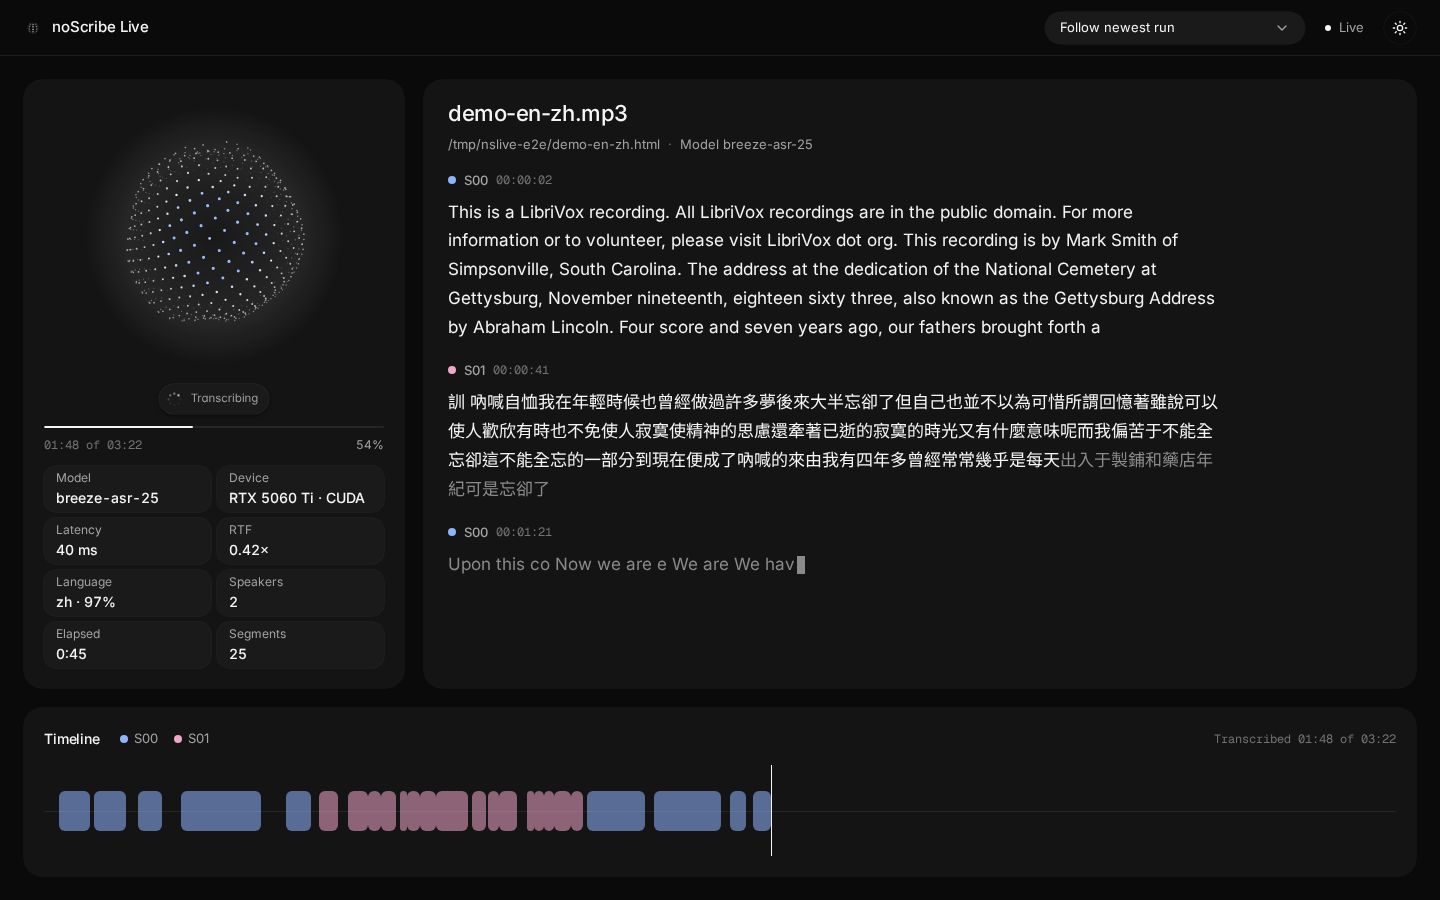
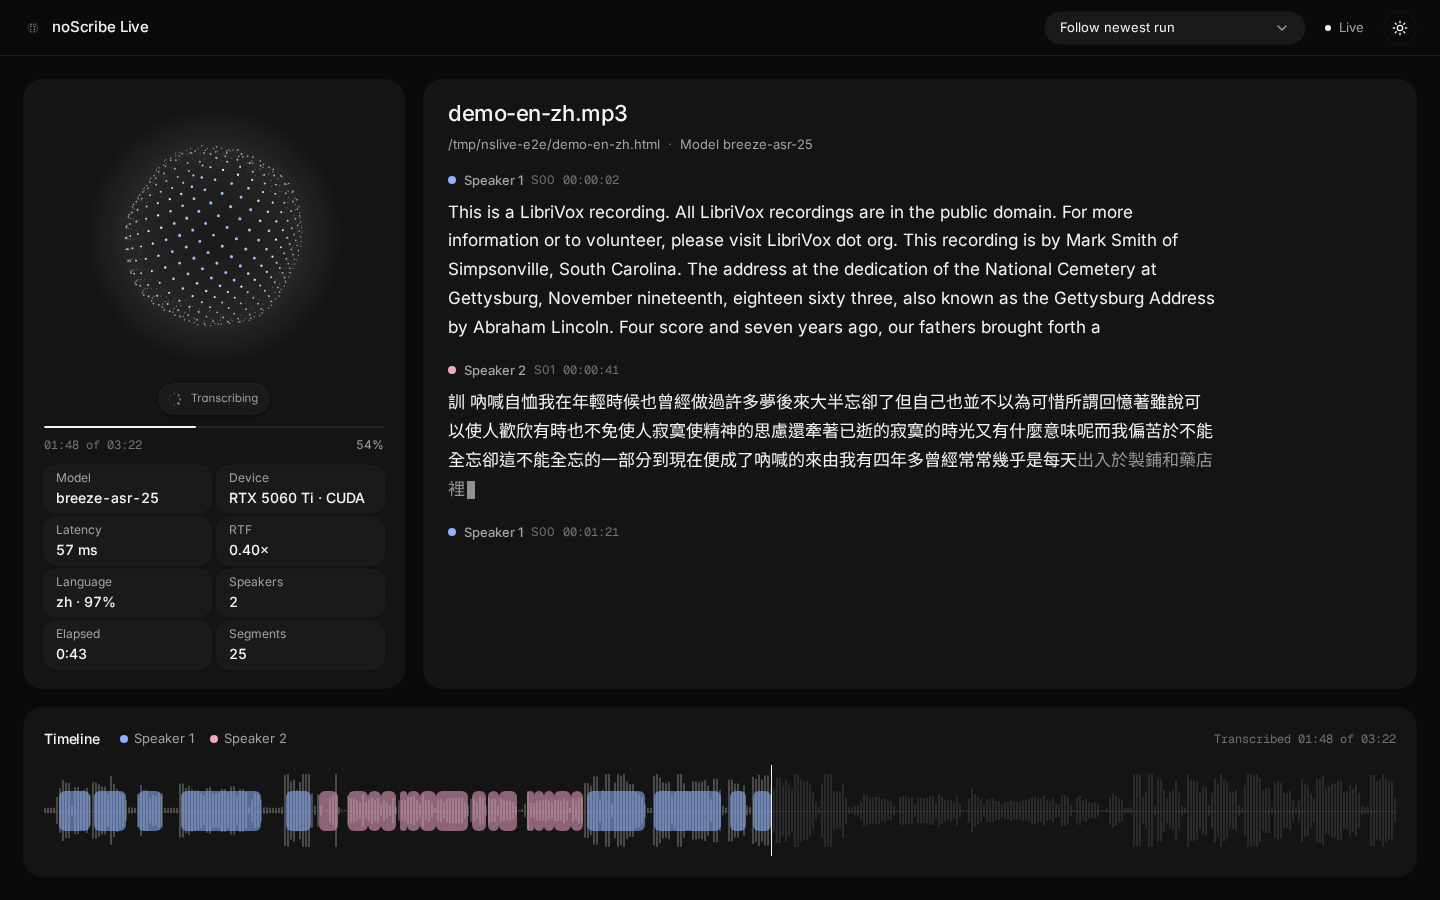
live/docs: one clean screenshot set from a fresh real run
Retook 01-08 during a new breeze-asr-25 CLI run on the RTX 5060 Ti, so
the mid-stream frames show segments revealing one at a time, speaker
names, the waveform timeline and Traditional display. Dropped the
superseded -run2 duplicates and updated live/README.md to match.

diff --git a/live/README.md b/live/README.md
@@ -71,8 +71,8 @@ faster-whisper yields segments per 30 s decoding window, so they arrive in burst
 - `docs/01-waiting.png`: before a run
 - `docs/02-diarizing.png`: diarizing
 - `docs/03-loading-model.png`: loading the model (thinking state)
-- `docs/04-midstream.png`, `docs/05-midstream-later.png`, `docs/06-mobile-midstream.png`: mid-run, run 1 (desktop, later, and mobile)
-- `docs/04b-midstream-run2.png`, `docs/05b-midstream-later-run2.png`, `docs/06b-mobile-midstream-run2.png`: the same views for run 2
+- `docs/04-midstream.png`, `docs/05-midstream-later.png`: segments arriving one at a time (desktop, earlier and later)
+- `docs/06-mobile-midstream.png`: mid-run on mobile
 - `docs/07-finished.png`: after the run finished
 - `docs/08-reopened-after-run-light.png`: opened after the run, catching up from the snapshot (light theme)
 
@@ -90,6 +90,7 @@ faster-whisper yields segments per 30 s decoding window, so they arrive in burst
   - `StreamingText` is adapted into `streaming-text-inline.tsx`.
 - No AICSS Pro components are used.
 - Built here: the canvas activity orb (`live/web/src/lib/orb-renderer.ts`), the timeline, the layout and the status chips.
+- Chinese segment text is shown in Traditional (Taiwan) through `opencc-js` (cn→tw), converted for display only and loaded lazily; the feed and the saved HTML are unchanged.
 
 ## Tests
 
@@ -100,6 +101,5 @@ cd live && .venv/bin/pip install -r requirements-dev.txt && .venv/bin/python -m 
 
 ## Known gaps
 
-- The waveform timeline draws segment bars only. Peaks are served by `/api/runs/{id}/peaks` but not drawn yet.
-- Speaker labels are raw `S00` and `S01`.
+- Chinese is converted to Traditional (Taiwan) for display only (opencc-js cn→tw); Whisper output carries no punctuation, and none is added.
 - There are no automated frontend tests.
